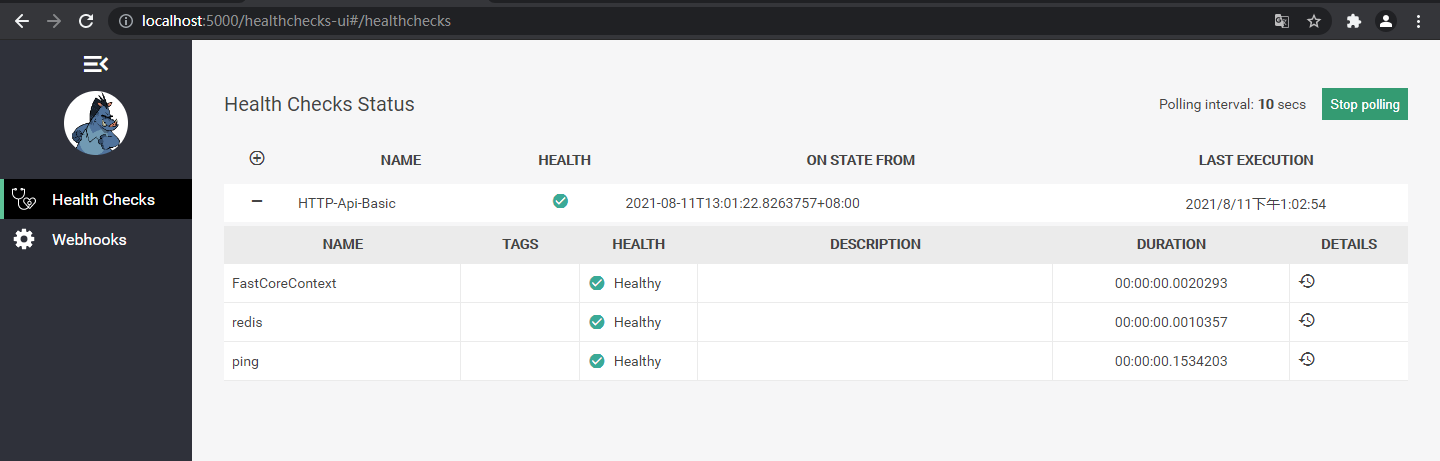
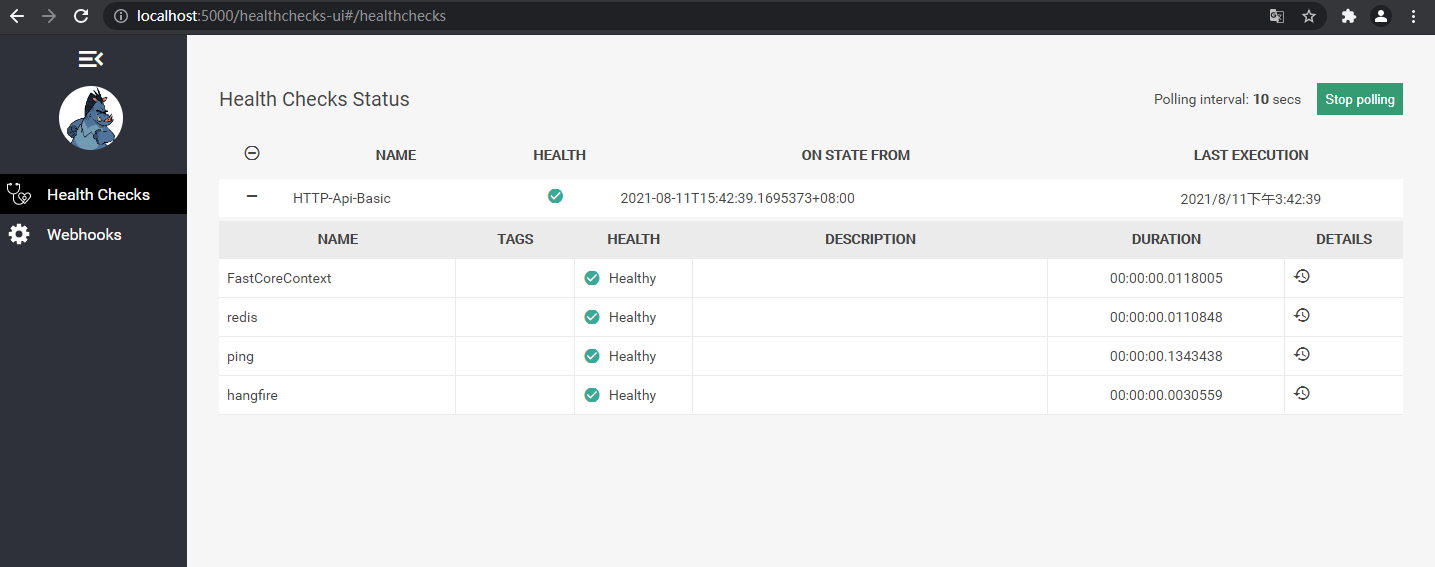
hangfire集成

diff --git a/src/FastCore.Hangfire/ServiceExtension.cs b/src/FastCore.Hangfire/ServiceExtension.cs
@@ -1,0 +1,55 @@
+using Hangfire;
+using Hangfire.SqlServer;
+using Microsoft.AspNetCore.Builder;
+using Microsoft.Extensions.Configuration;
+using Microsoft.Extensions.DependencyInjection;
+using System;
+
+namespace FastCore.Hangfire
+{
+    public static class ServiceExtension
+    {
+
+        public static void ConfigureHangfire(this IServiceCollection services, IConfiguration Configuration)
+        {
+            // Add Hangfire services.
+
+            services.AddHangfire(configuration => configuration
+                    .SetDataCompatibilityLevel(CompatibilityLevel.Version_170)
+                    .UseSimpleAssemblyNameTypeSerializer()
+                    .UseRecommendedSerializerSettings()
+                    .UseSqlServerStorage(Configuration.GetConnectionString("HangfireConnection"), new SqlServerStorageOptions
+                    {
+                        CommandBatchMaxTimeout = TimeSpan.FromMinutes(5),
+                        SlidingInvisibilityTimeout = TimeSpan.FromMinutes(5),
+                        QueuePollInterval = TimeSpan.Zero,
+                        UseRecommendedIsolationLevel = true,
+                        DisableGlobalLocks = true
+                    }));
+
+            // Add the processing server as IHostedService
+            services.AddHangfireServer();
+        }
+
+        public static void UseHangfire(this IApplicationBuilder app)
+        {
+            app.UseHangfireDashboard();
+
+            ConfigHangfireTask();
+        }
+
+        //此处定义服务
+        public static void ConfigHangfireTask()
+        {
+            var jobId = BackgroundJob.Schedule(
+                () => Console.WriteLine("Delayed!"),
+                TimeSpan.FromSeconds(30));
+
+            RecurringJob.AddOrUpdate(
+                "myrecurringjob",
+                () => Console.WriteLine("Recurring!"),
+                Cron.Minutely);
+        }
+
+    }
+}

diff --git a/src/FastCore.Feature/ServiceExtensions.cs b/src/FastCore.Feature/ServiceExtensions.cs
@@ -1,5 +1,6 @@
 using FastCore.Auditing;
 using FastCore.EFCore.SqlServer;
+using FastCore.Hangfire;
 using FastCore.HealthCheck;
 using FastCore.Redis;
 using FastCore.Security;
@@ -41,6 +42,7 @@ namespace SRM.HttpApi.Extensions
             services.ConfigureCors();
             services.ConfigureJwt(configuration);
 
+            //healthcheck
             services.ConfigureHealthChecks(configuration);
 
             //services.AddHealthChecksUI()
@@ -48,6 +50,9 @@ namespace SRM.HttpApi.Extensions
 
             services.AddHealthChecksUI()
                   .AddInMemoryStorage();
+
+            //hangfire
+            services.ConfigureHangfire(configuration);
 
         }
 
@@ -70,9 +75,12 @@ namespace SRM.HttpApi.Extensions
             app.UseAuthentication();
             app.UseAuthorization();
 
+            app.UseHangfire();
+
             app.UseEndpoints(endpoints =>
             {
                 endpoints.MapControllers();
+                //healthcheck
                 endpoints.MapHealthChecksUI();
             });
         }

diff --git a/src/FastCore.HealthCheck/ServiceExtensions.cs b/src/FastCore.HealthCheck/ServiceExtensions.cs
@@ -22,12 +22,12 @@ namespace FastCore.HealthCheck
                                 option.AddHost(ip, 3000);
                             }
                         }
+                    })
+                    .AddHangfire(option =>
+                    {
+                        option.MaximumJobsFailed = 3;
+                        option.MinimumAvailableServers = 1;
                     });
-            //.AddHangfire(option =>
-            //{
-            //    option.MaximumJobsFailed = 3;
-            //    option.MinimumAvailableServers = 1;
-            //});
         }
     }
 }
